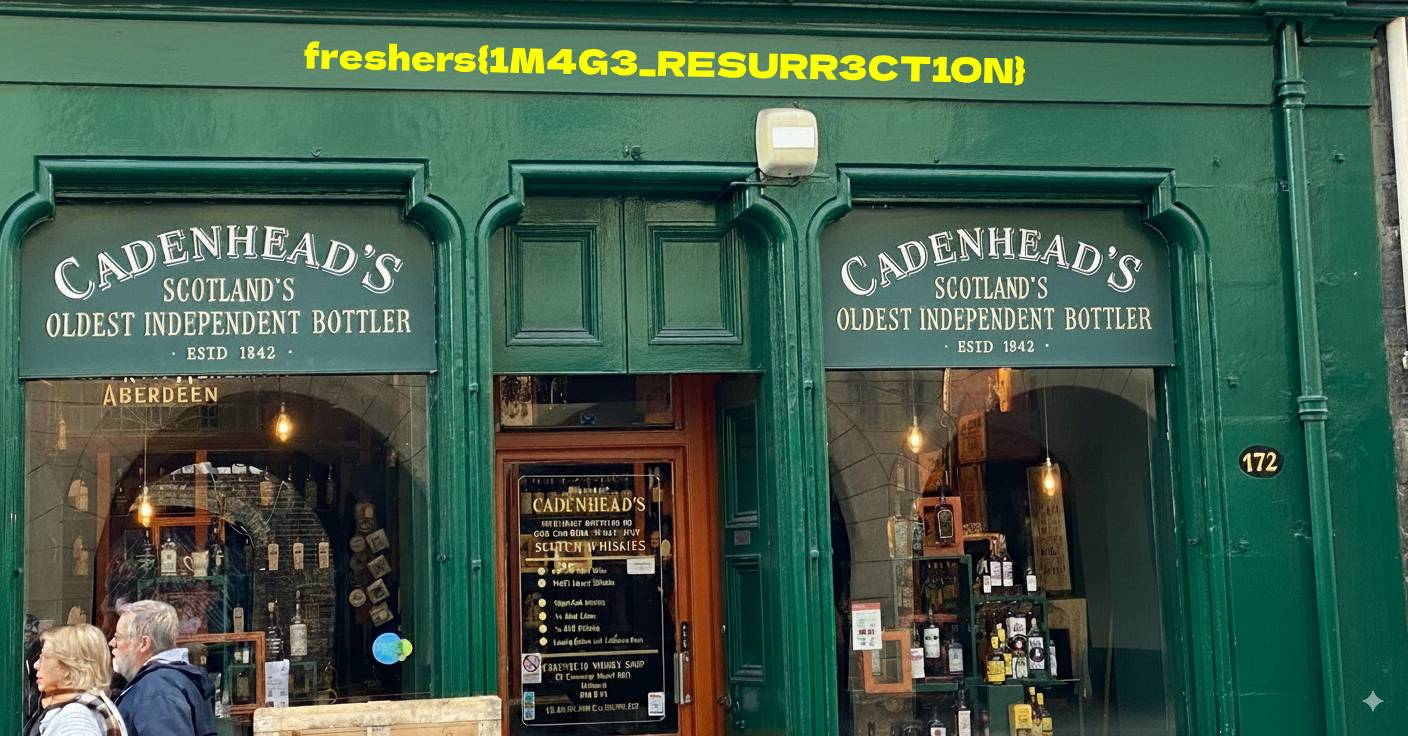
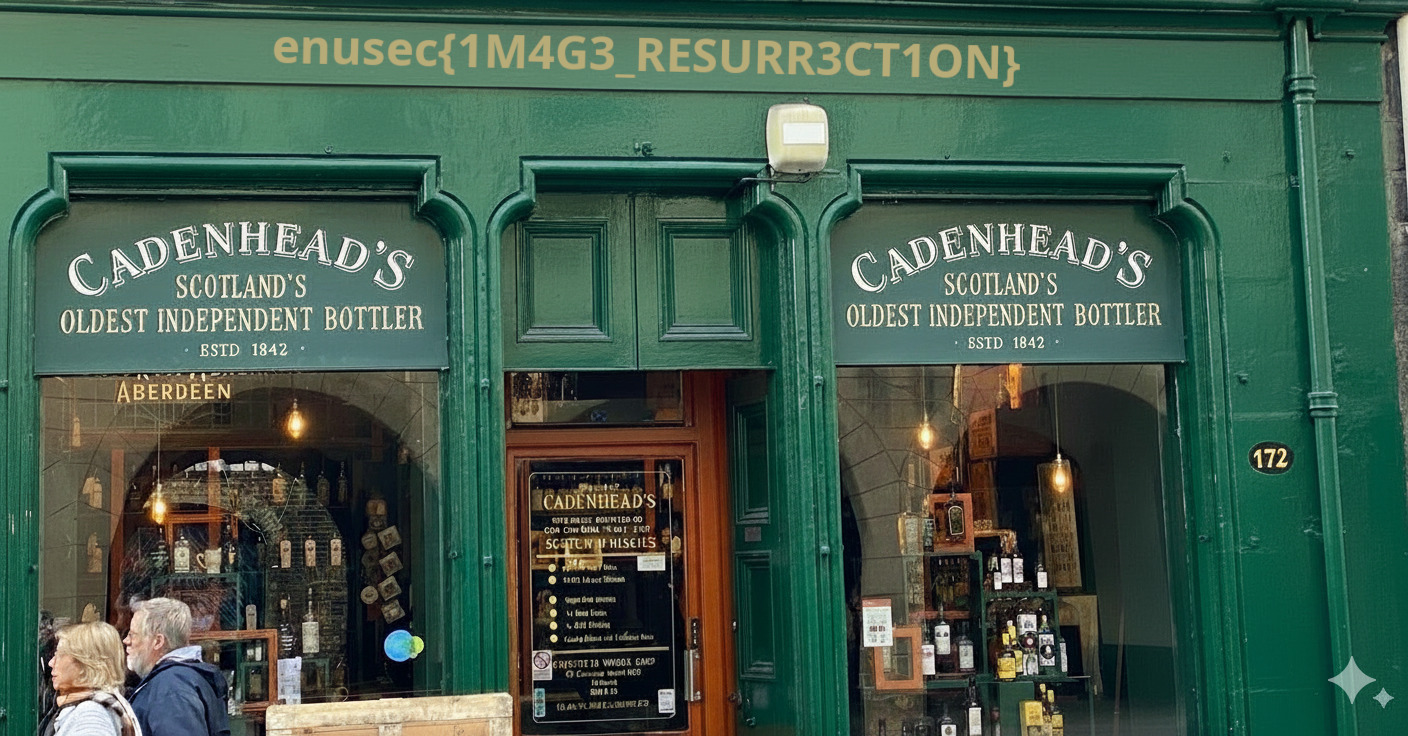
Magic_bytes updated for AdaScot

diff --git a/AdaScot_2025/magic_bytes/Readme.md b/AdaScot_2025/magic_bytes/Readme.md
@@ -31,7 +31,7 @@ Fix the JPG file header:
 
 - Change DE AD BE EF -> ff d8 ff e0
 
-The flag is: `freshers{1M4G3_RESURR3CT1ON}`
+The flag is: `enusec{1M4G3_RESURR3CT1ON}`
 
 ## Learning Objectives
 
